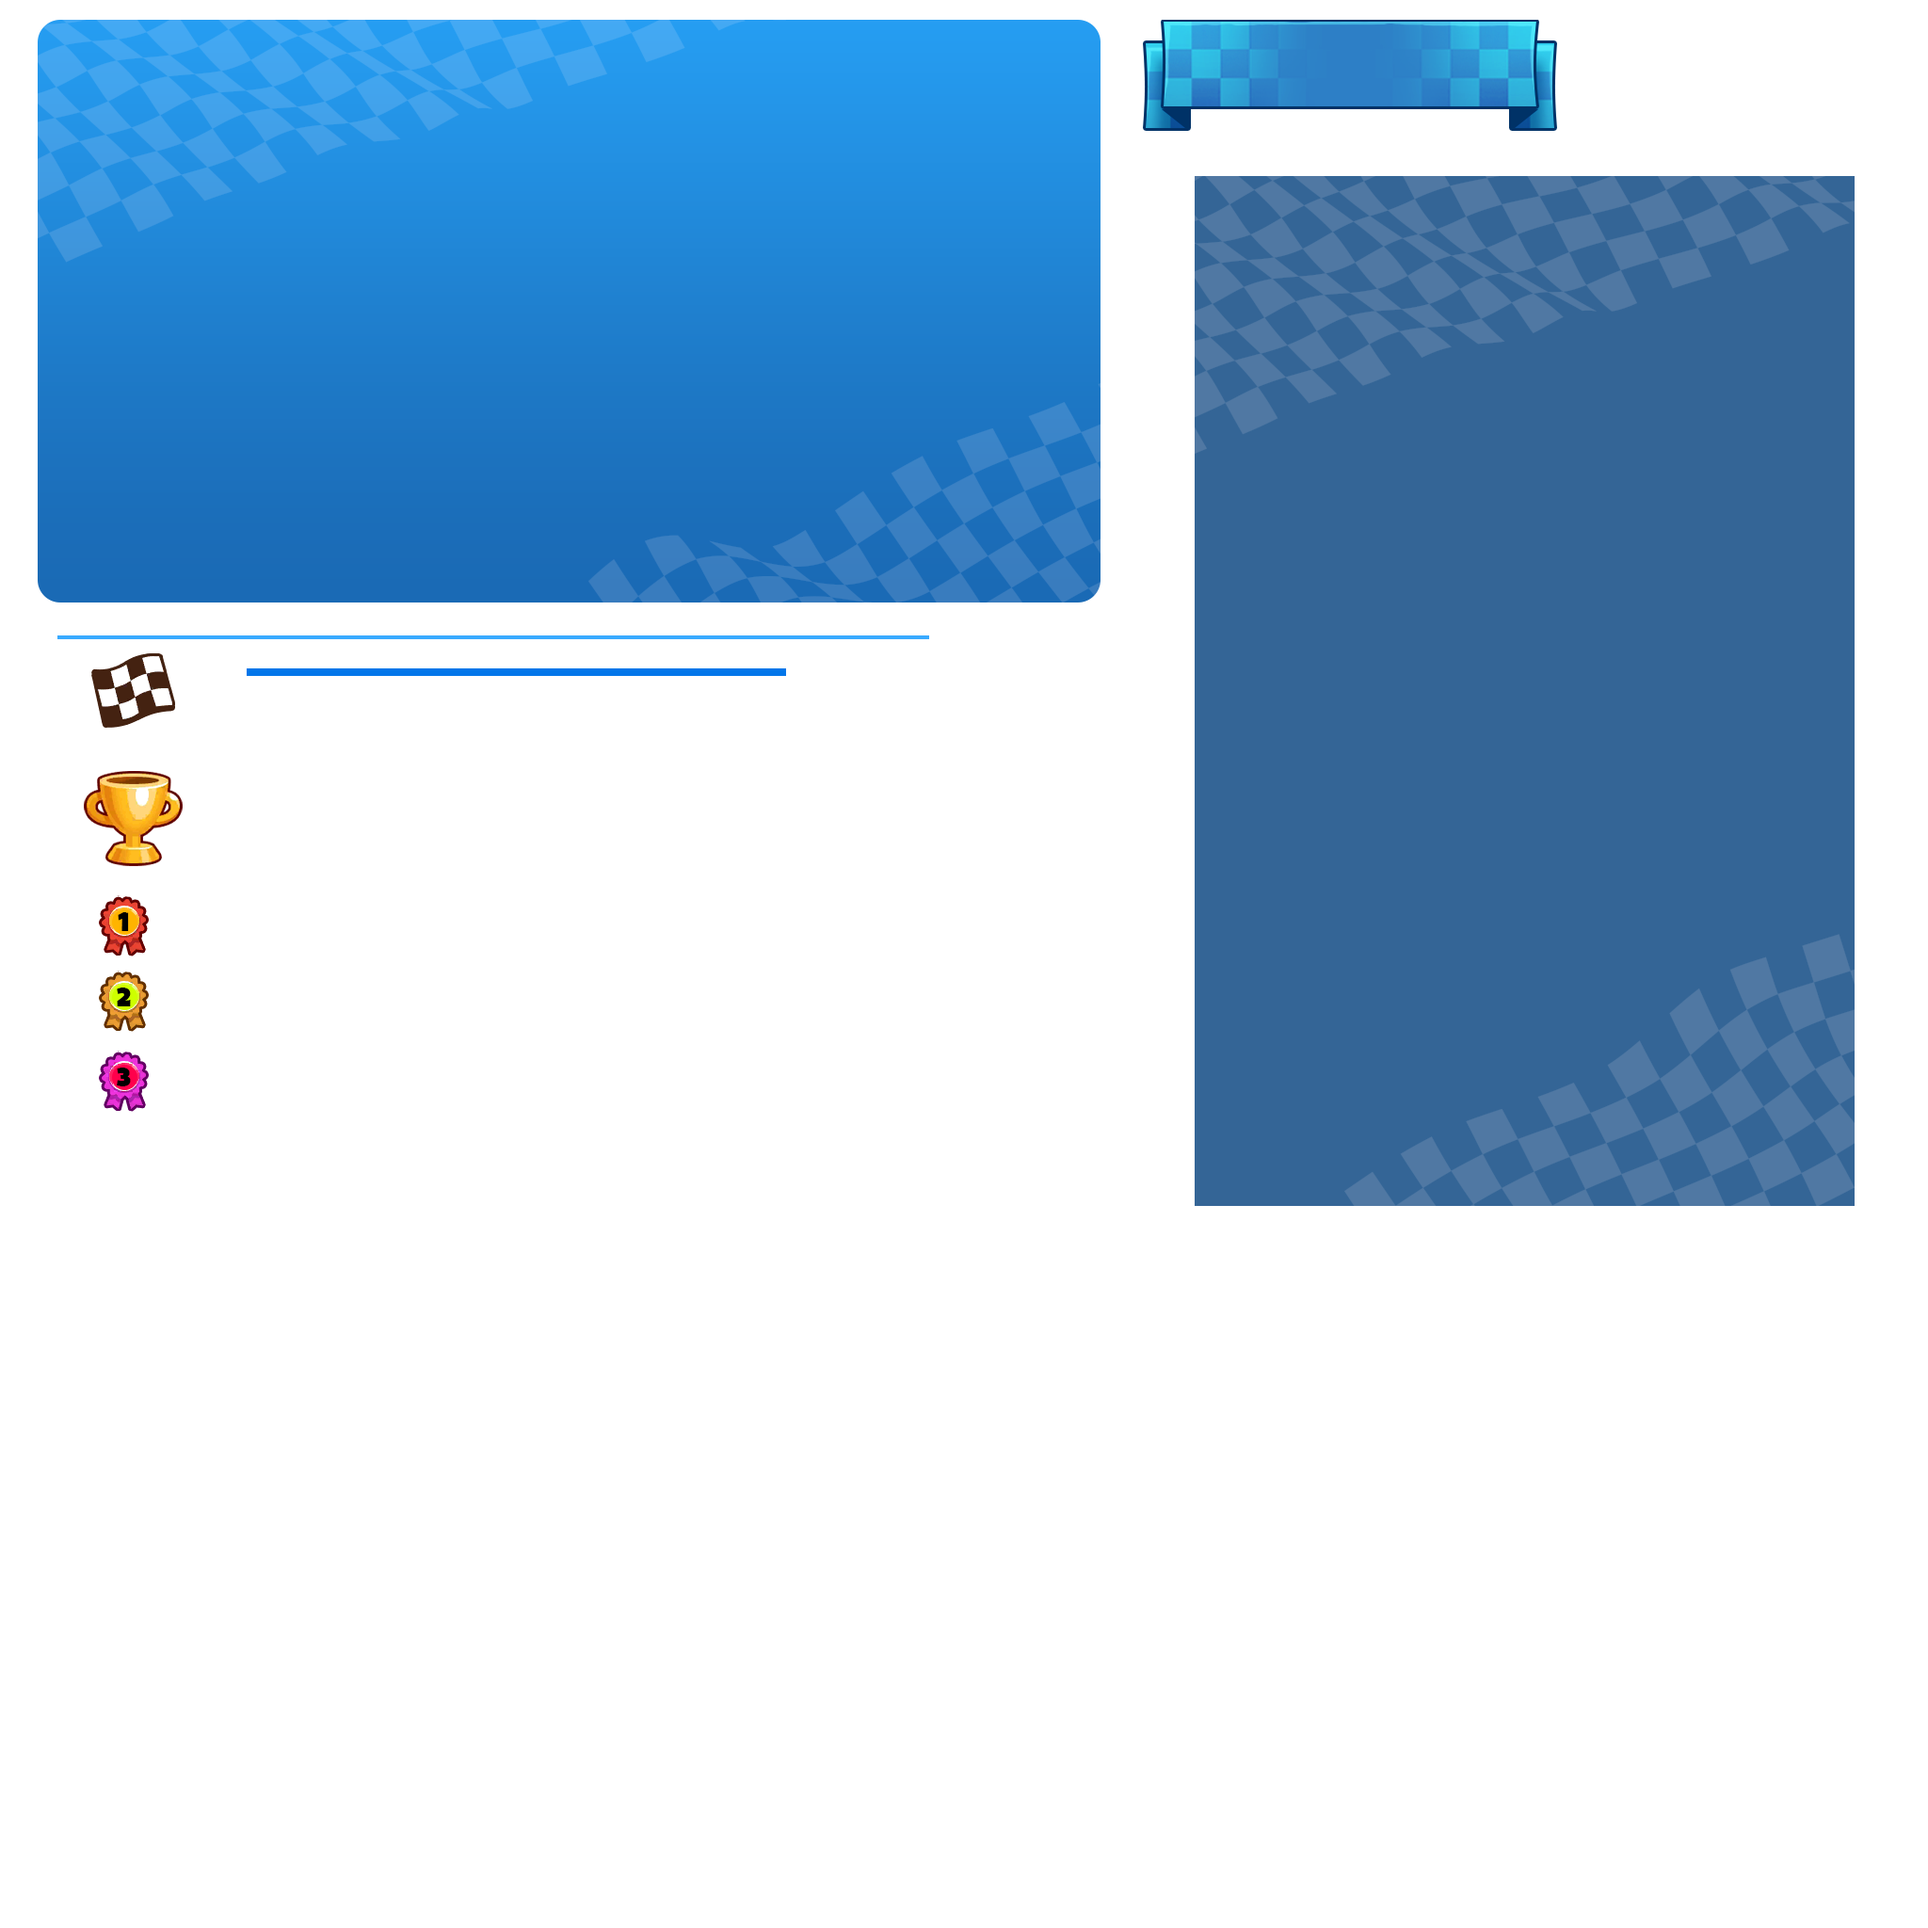
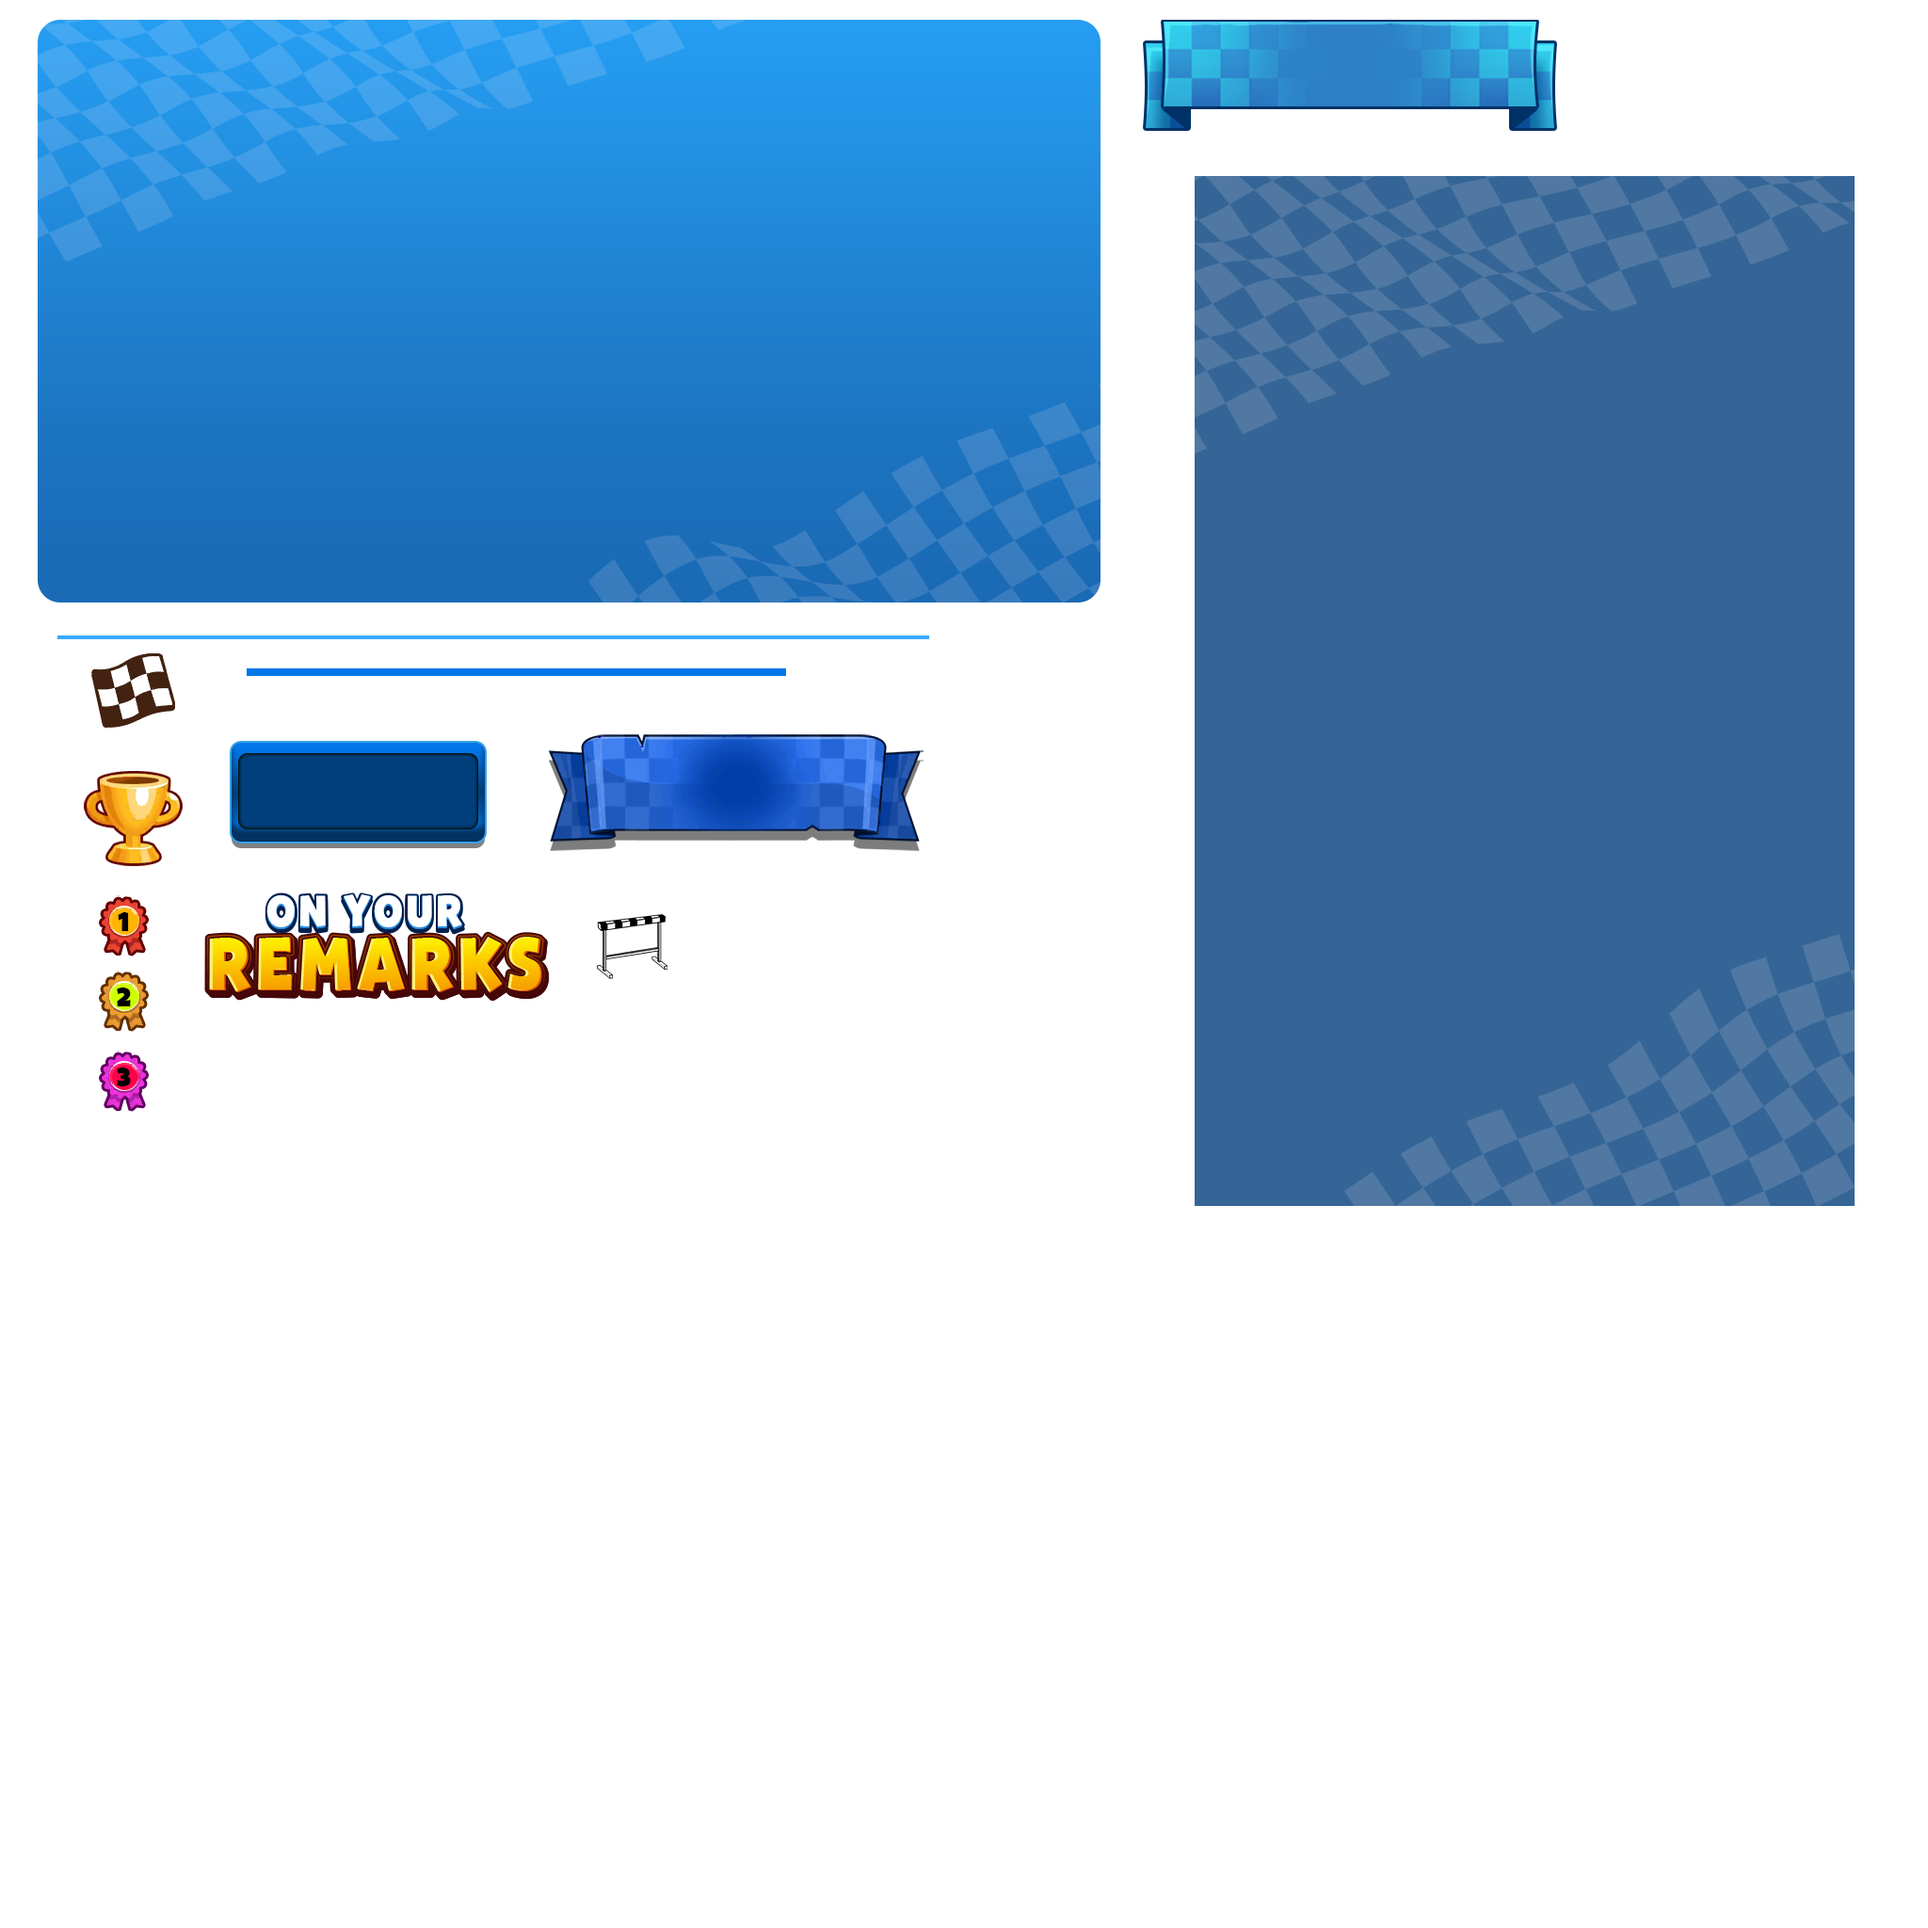
Players Starting Pos

Changed region(s): [[0.0938, 0.375, 0.2812, 0.5312], [0.2812, 0.375, 0.5, 0.4375], [0.3125, 0.4688, 0.3438, 0.5]]

diff --git a/Assets/Scripts/Assembly-CSharp/RaceManager.cs b/Assets/Scripts/Assembly-CSharp/RaceManager.cs
@@ -232,6 +232,8 @@ public class RaceManager : MonoBehaviour
 
 	public GameObject finishPlaceHolder;
 
+	public float distanceInPlayersAtStart;
+
     private bool uiLeftPressed;
     private bool uiRightPressed;
 
@@ -652,10 +654,12 @@ public class RaceManager : MonoBehaviour
 			num = component2.lane;
 			GameObject gameObject = startingLines_current[num - 1];
 			GameObject gameObject2 = startingBlocks_current[num - 1];
-			obj.transform.position = gameObject.transform.position + gameObject.transform.forward * -0.13f + Vector3.up * Mathf.Pow(num, 0.3f);
+
+            obj.transform.position = gameObject.transform.position
+                         + new Vector3(0f, Mathf.Pow(num, 0.3f), -(num * distanceInPlayersAtStart));
 
 
-			obj.GetComponent<Rigidbody>().isKinematic = true;
+            obj.GetComponent<Rigidbody>().isKinematic = true;
 
             StartCoroutine(DelayKinematicOff(obj.GetComponent<Rigidbody>(), 0.2f));
 

diff --git a/Assets/Scripts/Assembly-CSharp/PlayerAnimationV2.cs b/Assets/Scripts/Assembly-CSharp/PlayerAnimationV2.cs
@@ -1,3 +1,4 @@
+using DG.Tweening;
 using System.Collections;
 using System.Runtime.InteropServices.WindowsRuntime;
 using UnityEngine;
@@ -350,6 +351,12 @@ public class PlayerAnimationV2 : MonoBehaviour
             relayObject.SetActive(false);
         }
 
+        //Set Start Pos
+        DOVirtual.DelayedCall(2f, () =>
+        {
+            transform.position = new Vector3(transform.localPosition.x, transform.localPosition.y,
+            transform.localPosition.z + (transform.GetSiblingIndex() * 4f));
+        });
 
 
 
